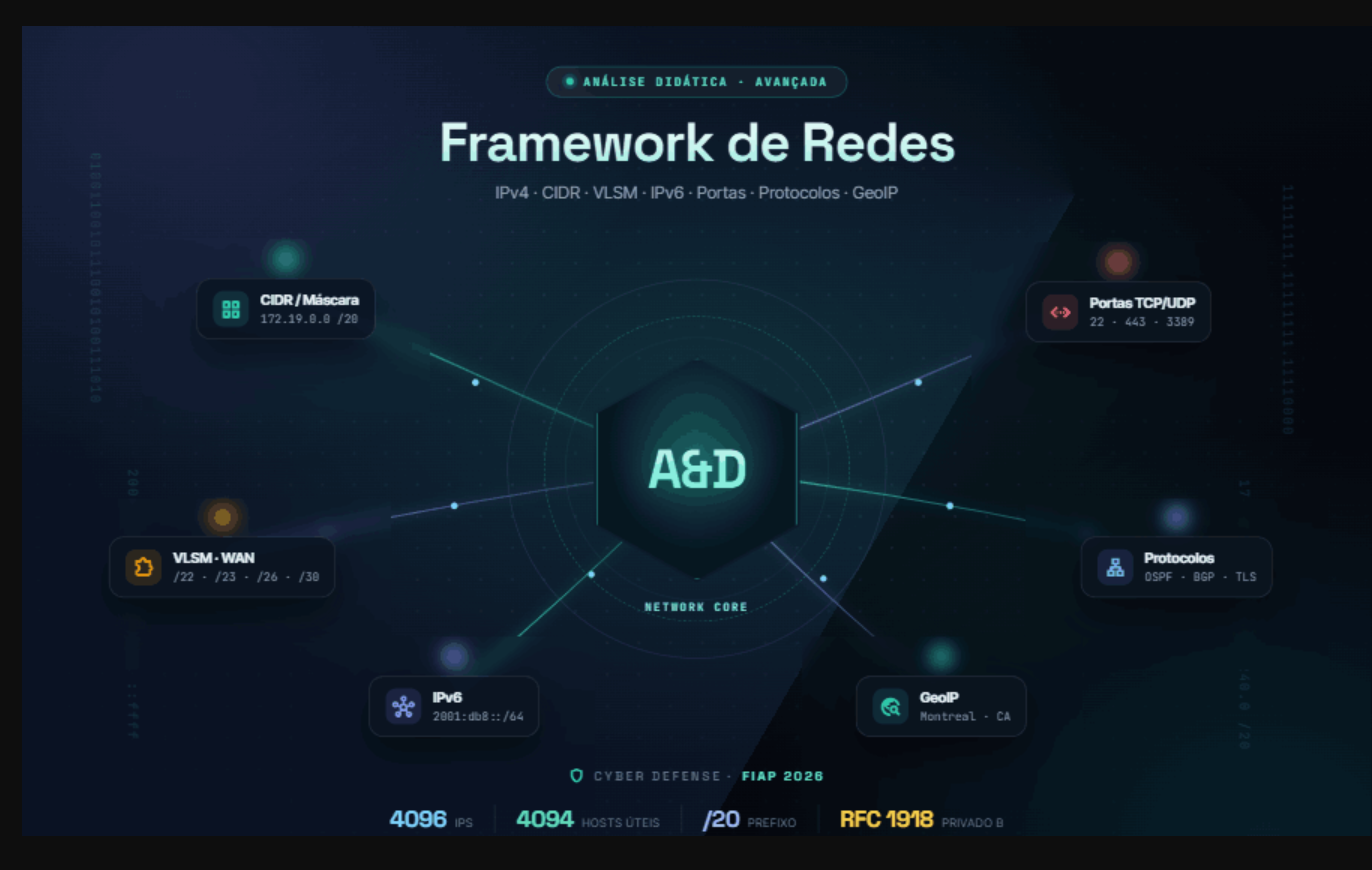
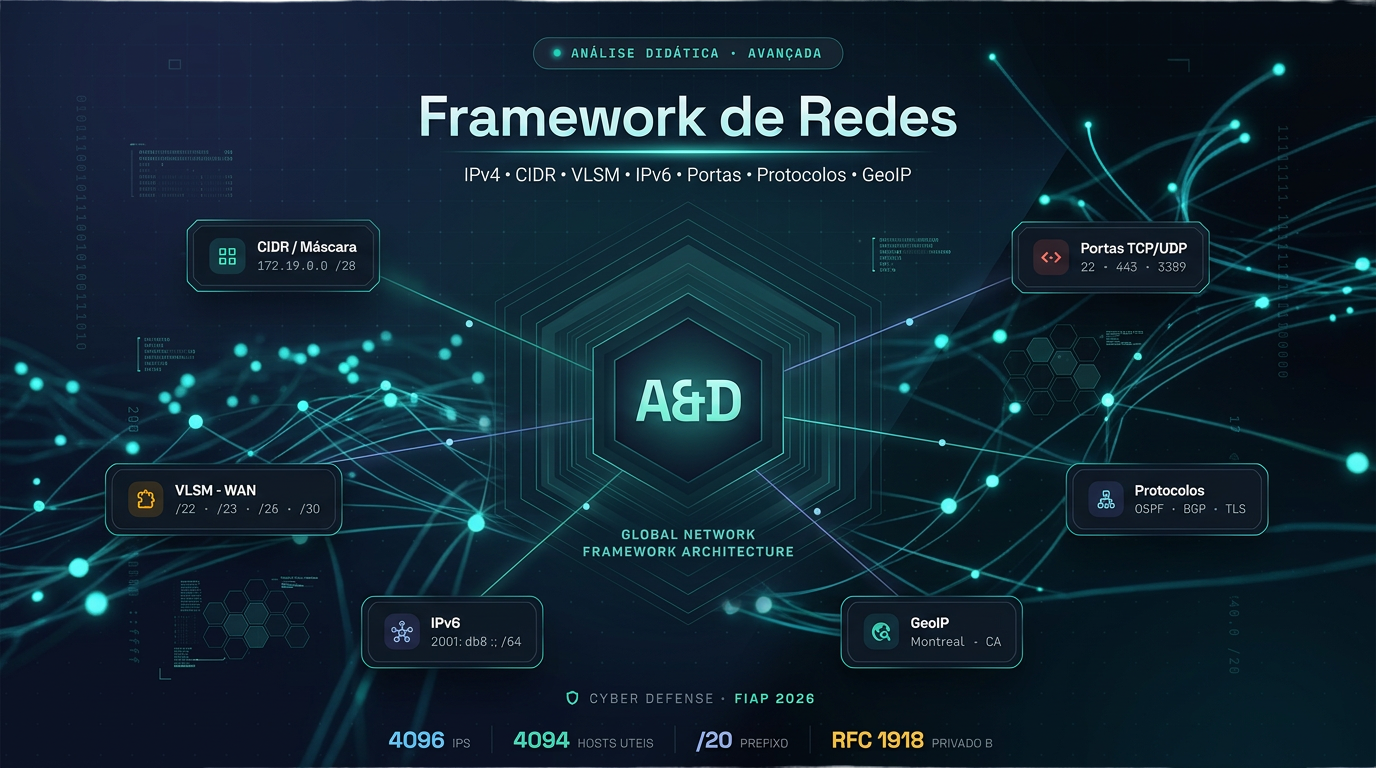
feat: add GeoIP lookup dashboard with map integration and history tracking

diff --git a/src/main/resources/META-INF/resources/localizacao/js/geo-globe.js b/src/main/resources/META-INF/resources/localizacao/js/geo-globe.js
@@ -1,0 +1,113 @@
+/* Globo 3D (Globe.gl + Three.js) ao lado do relatório GeoIP.
+ * Renderiza um planeta interativo com atmosfera e nuvens e plota o ponto do IP
+ * localizado. O painel (geo-panel.js) chama window.GeoGlobe.setLocation(lat, lon, label).
+ * Texturas via CDN (three-globe). Se o WebGL falhar, o card volta a uma coluna. */
+import * as THREE from "three";
+import Globe from "globe.gl";
+
+(function () {
+    "use strict";
+
+    var EARTH_IMG = "https://cdn.jsdelivr.net/npm/three-globe/example/img/earth-blue-marble.jpg";
+    var BUMP_IMG = "https://cdn.jsdelivr.net/npm/three-globe/example/img/earth-topology.png";
+    var CLOUDS_IMG = "https://cdn.jsdelivr.net/npm/three-globe/example/clouds/clouds.png";
+    var CLOUDS_ALT = 0.01;
+    var CLOUDS_SPEED = -0.006;
+
+    var globe = null;
+    var clouds = null;
+    var ready = false;
+
+    function collapse() {
+        var wrap = document.querySelector(".geo-globe-wrap");
+        if (wrap) wrap.remove();
+        var box = document.getElementById("geo-sucesso");
+        if (box) box.classList.remove("geo-split");
+    }
+
+    function build() {
+        var el = document.getElementById("geo-globe");
+        if (!el || globe) return;
+
+        try {
+            globe = Globe()(el)
+                .backgroundColor("rgba(0,0,0,0)")
+                .globeImageUrl(EARTH_IMG)
+                .bumpImageUrl(BUMP_IMG)
+                .showAtmosphere(true)
+                .atmosphereColor("#4da6ff")
+                .atmosphereAltitude(0.18)
+                .pointsData([])
+                .pointLat("lat")
+                .pointLng("lng")
+                .pointColor(function () { return "#ff3131"; })
+                .pointAltitude(0.08)
+                .pointRadius(0.5)
+                .pointLabel(function (p) { return "<strong>" + (p.label || "") + "</strong>"; })
+                .ringsData([])
+                .ringLat("lat")
+                .ringLng("lng")
+                .ringColor(function () { return function (t) { return "rgba(255,49,49," + (1 - t) + ")"; }; })
+                .ringMaxRadius(4)
+                .ringPropagationSpeed(2)
+                .ringRepeatPeriod(900);
+        } catch (e) {
+            collapse();
+            return;
+        }
+
+        var ctrl = globe.controls();
+        ctrl.autoRotate = true;
+        ctrl.autoRotateSpeed = 0.5;
+        ctrl.enableDamping = true;
+
+        new THREE.TextureLoader().load(CLOUDS_IMG, function (tex) {
+            clouds = new THREE.Mesh(
+                new THREE.SphereGeometry(globe.getGlobeRadius() * (1 + CLOUDS_ALT), 75, 75),
+                new THREE.MeshPhongMaterial({ map: tex, transparent: true, opacity: 0.55, depthWrite: false })
+            );
+            globe.scene().add(clouds);
+            (function spin() {
+                if (clouds) clouds.rotation.y += CLOUDS_SPEED * Math.PI / 180;
+                requestAnimationFrame(spin);
+            })();
+        }, undefined, function () { /* nuvens são opcionais */ });
+
+        function resize() {
+            var w = el.clientWidth || 420;
+            var h = el.clientHeight || 420;
+            globe.width(w).height(h);
+        }
+        resize();
+        if (window.ResizeObserver) new ResizeObserver(resize).observe(el);
+        else window.addEventListener("resize", resize);
+
+        ready = true;
+        globe.pointOfView({ lat: -14, lng: -52, altitude: 2.2 }, 0); // Brasil, enquanto não há ponto
+        if (window.__geoPendingLoc) apply(window.__geoPendingLoc);
+    }
+
+    function apply(loc) {
+        if (!ready || !globe || !loc) return;
+        var lat = Number(loc.lat);
+        var lon = Number(loc.lon);
+        if (!isFinite(lat) || !isFinite(lon)) return;
+        var data = [{ lat: lat, lng: lon, label: loc.label || "" }];
+        globe.pointsData(data).ringsData(data);
+        globe.pointOfView({ lat: lat, lng: lon, altitude: 1.7 }, 1500);
+    }
+
+    window.GeoGlobe = {
+        setLocation: function (lat, lon, label) {
+            var loc = { lat: lat, lon: lon, label: label };
+            window.__geoPendingLoc = loc;
+            apply(loc);
+        }
+    };
+
+    if (document.readyState === "loading") {
+        document.addEventListener("DOMContentLoaded", build);
+    } else {
+        build();
+    }
+})();

diff --git a/src/main/resources/META-INF/resources/localizacao/css/localizacao.css b/src/main/resources/META-INF/resources/localizacao/css/localizacao.css
@@ -114,6 +114,59 @@
     color: var(--aed-risk-critical, #f43f5e);
 }
 
+/* Layout dividido do resultado GeoIP: relatório à esquerda, globo 3D à direita. */
+.geo-split {
+    display: grid;
+    grid-template-columns: minmax(0, 1.15fr) minmax(0, 1fr);
+    gap: 1rem;
+    align-items: stretch;
+}
+
+@media (max-width: 62em) {
+    .geo-split {
+        grid-template-columns: 1fr;
+    }
+}
+
+.geo-globe-wrap {
+    position: relative;
+    min-height: 22rem;
+    border-radius: var(--aed-radius-card, 0.75rem);
+    overflow: hidden;
+    background: radial-gradient(circle at 50% 38%, #0b1b33 0%, #07101f 55%, #04070e 100%);
+    border: 1px solid var(--aed-border, rgba(255, 255, 255, 0.08));
+    margin-top: 1rem;
+}
+
+#geo-globe {
+    position: absolute;
+    inset: 0;
+}
+
+#geo-globe canvas {
+    display: block;
+    cursor: grab;
+}
+
+.geo-globe-cap {
+    position: absolute;
+    left: 0;
+    right: 0;
+    bottom: 0;
+    padding: 0.4rem 0.7rem;
+    display: flex;
+    align-items: center;
+    gap: 0.4rem;
+    font-size: 0.72rem;
+    color: #8fb4d8;
+    background: linear-gradient(180deg, rgba(4, 7, 14, 0), rgba(4, 7, 14, 0.85));
+    pointer-events: none;
+}
+
+.geo-globe-cap .material-symbols-outlined {
+    font-size: 1rem;
+}
+
 .loc-map {
     /* Altura fluida: adapta a celular/tablet/desktop pela altura do viewport. */
     height: clamp(16rem, 55vh, 34rem);

diff --git a/src/main/resources/templates/localizacao/index.html b/src/main/resources/templates/localizacao/index.html
@@ -2,7 +2,18 @@
 {#title}Framework de Redes A&D | Localização{/title}
 {#extraHead}
 <link rel="stylesheet" href="https://unpkg.com/leaflet@1.9.4/dist/leaflet.css">
-<link rel="stylesheet" href="/localizacao/css/localizacao.css?v=20260709">
+<link rel="stylesheet" href="/localizacao/css/localizacao.css?v=20260710">
+{|
+<script type="importmap">
+{
+  "imports": {
+    "three": "https://esm.sh/three@0.170.0",
+    "three/": "https://esm.sh/three@0.170.0/",
+    "globe.gl": "https://esm.sh/globe.gl@2.34.4?external=three"
+  }
+}
+</script>
+|}
 {/extraHead}
 {#content}
 <div class="container py-5">
@@ -73,8 +84,14 @@
             <span id="geo-loading" class="spinner-border spinner-border-sm text-warning ms-2 d-none" role="status" aria-hidden="true"></span>
         </p>
 
-        <div id="geo-sucesso" class="d-none">
+        <div id="geo-sucesso" class="d-none geo-split">
             <div id="geo-report-root" class="geo-report-root"></div>
+            <div class="geo-globe-wrap" aria-hidden="true">
+                <div id="geo-globe"></div>
+                <div class="geo-globe-cap">
+                    <span class="material-symbols-outlined">public</span> Localização aproximada do IP no globo
+                </div>
+            </div>
         </div>
 
         <div id="geo-falha" class="alert alert-secondary mb-0 mt-2 d-none" role="alert">
@@ -158,6 +175,7 @@
 <script src="https://unpkg.com/leaflet@1.9.4/dist/leaflet.js"></script>
 <script src="/analiseDidatica/js/geo_report.js?v=20260709"></script>
 <script src="/localizacao/js/localizacao.js?v=20260709"></script>
-<script src="/localizacao/js/geo-panel.js?v=20260709"></script>
+<script src="/localizacao/js/geo-panel.js?v=20260710"></script>
+<script type="module" src="/localizacao/js/geo-globe.js?v=20260710"></script>
 {/extraScripts}
 {/include}

diff --git a/src/main/resources/META-INF/resources/localizacao/js/geo-panel.js b/src/main/resources/META-INF/resources/localizacao/js/geo-panel.js
@@ -113,11 +113,19 @@
             elMsg.textContent = j.mensagem || j.erro || "Indisponível.";
         }
 
-        // Plota no mapa compartilhado quando houver coordenadas públicas.
+        // Plota no mapa compartilhado e no globo 3D quando houver coordenadas públicas.
         var lat = j.latitude != null ? j.latitude : j.lat;
         var lon = j.longitude != null ? j.longitude : j.lon;
+        var label = (j.ip || "") + (j.cidade ? " · " + j.cidade : "");
         if (w.LocMap && lat != null && lon != null) {
-            w.LocMap.setMarker(lat, lon, (j.ip || "") + (j.cidade ? " · " + j.cidade : ""));
+            w.LocMap.setMarker(lat, lon, label);
+        }
+        if (lat != null && lon != null) {
+            if (w.GeoGlobe) {
+                w.GeoGlobe.setLocation(lat, lon, label);
+            } else {
+                w.__geoPendingLoc = { lat: lat, lon: lon, label: label }; // globo ainda carregando
+            }
         }
     }
 